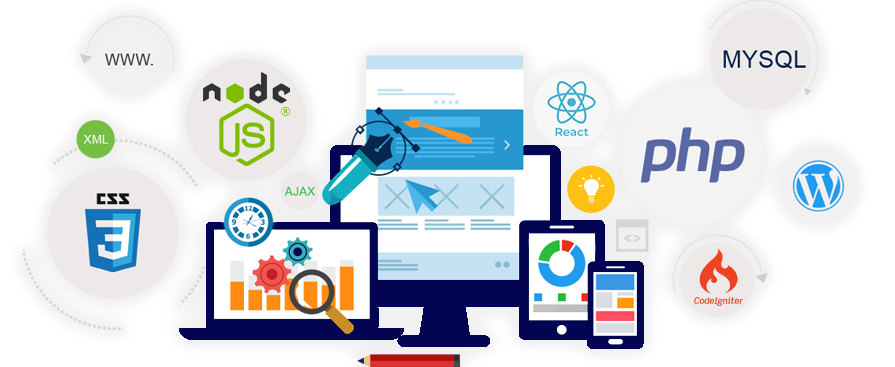
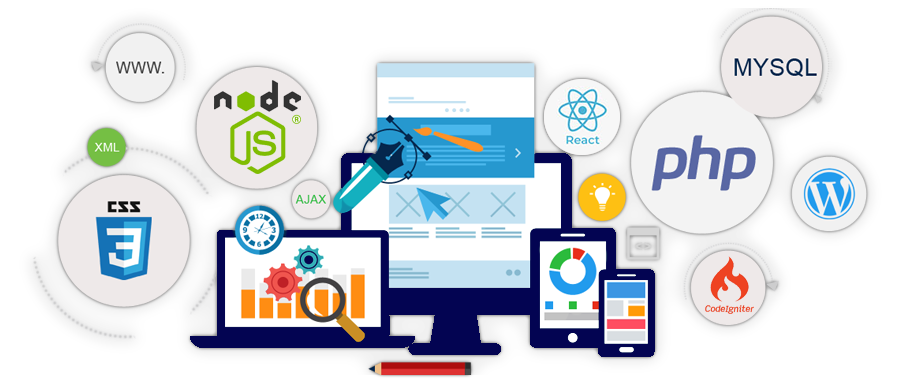
section update

diff --git a/components/home/ResponsiveWebDesignFeature.jsx b/components/home/ResponsiveWebDesignFeature.jsx
@@ -1,0 +1,158 @@
+'use client';
+
+import Image from 'next/image';
+import { ArrowRight, Timer, Database, Store } from 'lucide-react';
+
+export default function ResponsiveWebDesignFeature() {
+  return (
+    <section id="services" className="bg-[#f4f7f5] py-16 md:py-24">
+      <div className="mx-auto max-w-6xl px-6">
+        <div className="grid grid-cols-1 gap-6 md:grid-cols-3">
+          <div className="flex flex-col justify-between rounded-3xl bg-gradient-to-br from-emerald-600 to-teal-800 p-8 text-white shadow-sm transition-transform duration-300 hover:scale-[1.01] md:col-span-2 md:p-12">
+            <div>
+              <span className="mb-3 block text-xs font-bold uppercase tracking-widest text-emerald-300">
+                Core Expertise
+              </span>
+              <h1 className="max-w-xl text-4xl font-extrabold leading-tight tracking-tight md:text-5xl">
+                Responsive Web Design &amp; Development
+              </h1>
+              <div className="relative mt-6 w-full" style={{ aspectRatio: '1012/174', maxWidth: '400px' }}>
+                <Image
+                  src="/assets/images/AI-Website-Maintainance-Design-Development.png"
+                  alt="Web Design & Development"
+                  fill
+                  className="rounded-xl object-contain"
+                />
+              </div>
+            </div>
+            <div className="mt-8 md:mt-12">
+              <a
+                href="#"
+                className="inline-flex items-center gap-2 rounded-full bg-white px-6 py-3.5 font-semibold text-emerald-900 shadow-md transition-colors hover:bg-emerald-50 group"
+              >
+                Contact Us
+                <ArrowRight className="h-4 w-4 text-emerald-600 transition-transform group-hover:translate-x-1" />
+              </a>
+            </div>
+          </div>
+
+          <div className="flex flex-col justify-between rounded-3xl border border-slate-100 bg-white p-8 shadow-sm transition-transform duration-300 hover:scale-[1.01]">
+            <div className="mb-6 flex h-12 w-12 items-center justify-center rounded-2xl bg-emerald-50 text-xl text-emerald-600">
+              <Timer className="h-6 w-6" />
+            </div>
+            <div>
+              <div className="mb-2 text-5xl font-black tracking-tight text-slate-800">
+                7s
+              </div>
+              <span className="mb-2 block text-sm font-semibold uppercase tracking-wider text-emerald-600">
+                First Impressions Count
+              </span>
+              <p className="text-sm leading-relaxed text-slate-500">
+                You have just seven seconds to make a great impression before visitors judge your brand. We make every millisecond matter.
+              </p>
+            </div>
+          </div>
+
+          <div className="flex flex-col justify-between rounded-3xl border border-slate-100 bg-white p-8 shadow-sm transition-transform duration-300 hover:scale-[1.01]">
+            <div>
+              <span className="mb-4 block text-xs font-bold uppercase tracking-widest text-slate-400">
+                Ecosystem
+              </span>
+              <h3 className="mb-6 text-lg font-bold text-slate-800">
+                Modern Architecture
+              </h3>
+
+              <div className="grid grid-cols-3 gap-3">
+                {[
+                  { icon: NodeIcon, color: 'text-green-600', label: 'Node.js' },
+                  { icon: ReactIcon, color: 'text-cyan-500', label: 'React' },
+                  { icon: PHPIcon, color: 'text-indigo-600', label: 'PHP' },
+                  { icon: WPIcon, color: 'text-blue-500', label: 'WordPress' },
+                  { icon: CSSIcon, color: 'text-blue-600', label: 'CSS3' },
+                  { icon: () => <Database className="h-6 w-6" />, color: 'text-orange-500', label: 'Databases' },
+                ].map(({ icon: Icon, color, label }) => (
+                  <div
+                    key={label}
+                    title={label}
+                    className="group flex flex-col items-center justify-center rounded-xl bg-slate-50 p-3 transition-colors hover:bg-emerald-50"
+                  >
+                    <Icon />
+                  </div>
+                ))}
+              </div>
+            </div>
+            <p className="mt-6 text-xs italic text-slate-400">
+              Built using top-tier, scalable software standards.
+            </p>
+          </div>
+
+          <div className="flex flex-col items-start justify-between gap-6 rounded-3xl border border-slate-100 bg-white p-8 shadow-sm transition-transform duration-300 hover:scale-[1.01] md:col-span-2 md:flex-row md:items-center md:p-12">
+            <div className="max-w-md">
+              <h3 className="mb-3 text-xl font-bold text-slate-800">
+                Your Digital Storefront
+              </h3>
+              <p className="leading-relaxed text-slate-500">
+                In the digital age, your website is your primary storefront. It entices customers, builds immediate trust, and drives scalable
+                conversions just like a well-designed premium physical store would.
+              </p>
+            </div>
+            <div className="flex w-full flex-shrink-0 items-center gap-4 rounded-2xl border border-slate-100 bg-slate-50 p-6 md:w-auto">
+              <div className="rounded-xl bg-emerald-500 p-3 text-white">
+                <Store className="h-5 w-5" />
+              </div>
+              <div>
+                <div className="text-sm font-bold text-slate-700">
+                  Physical Charm
+                </div>
+                <div className="text-xs text-slate-400">
+                  Meets Digital Power
+                </div>
+              </div>
+            </div>
+          </div>
+        </div>
+      </div>
+    </section>
+  );
+}
+
+function NodeIcon() {
+  return (
+    <svg viewBox="0 0 24 24" className="h-6 w-6 fill-current text-green-600">
+      <path d="M12 2C6.48 2 2 6.48 2 12s4.48 10 10 10 10-4.48 10-10S17.52 2 12 2zm-1 17.93c-3.95-.49-7-3.85-7-7.93 0-.62.08-1.21.21-1.79L9 15v1c0 1.1.9 2 2 2v1.93zm6.9-2.54c-.26-.81-1-1.39-1.9-1.39h-1v-3c0-.55-.45-1-1-1H8v-2h2c.55 0 1-.45 1-1V7h2c1.1 0 2-.9 2-2v-.41c2.93 1.19 5 4.06 5 7.41 0 2.08-.8 3.97-2.1 5.39z"/>
+    </svg>
+  );
+}
+
+function ReactIcon() {
+  return (
+    <svg viewBox="0 0 24 24" className="h-6 w-6 fill-current text-cyan-500">
+      <path d="M12 10.11c1.04 0 1.89.85 1.89 1.89s-.85 1.89-1.89 1.89-1.89-.85-1.89-1.89.85-1.89 1.89-1.89zM12 2.5c-2.39 0-4.49 1.15-5.91 2.95 1.77 1.02 4.23 1.84 6.96 2.28.62-1.27 1.33-2.45 2.1-3.46C14.63 3.23 13.33 2.5 12 2.5zM8.71 6.08C7.71 7.33 6.83 8.74 6.12 10.26c1.78.26 3.76.46 5.85.58.69-1.24 1.46-2.4 2.29-3.44-1.87-.52-3.77-.8-5.55-.32zM5.56 12.37c-.11.52-.17 1.07-.17 1.63 0 3.78 2.53 6.99 6 7.93-1.81-2.36-3.02-5.68-3.02-9.56 0-.32.01-.63.03-.94-1.01-.22-2-.39-2.84-.06zM6.29 16.68c.63 1.66 1.53 3.1 2.62 4.25-1.55-.41-2.93-1.19-3.99-2.21.45-.7.9-1.38 1.37-2.04z"/>
+    </svg>
+  );
+}
+
+function PHPIcon() {
+  return (
+    <svg viewBox="0 0 24 24" className="h-6 w-6 fill-current text-indigo-600">
+      <path d="M7.01 18.5L9.52 5.5h3.03c2.1 0 3.7.43 4.8 1.28 1.1.86 1.65 2.08 1.65 3.67 0 .99-.21 1.86-.63 2.6-.42.74-1.01 1.31-1.78 1.71-.77.4-1.67.6-2.71.6h-1.69l-1.15 5.13H7.01zm3.91-7.47h.89c.88 0 1.57-.22 2.07-.65s.76-1.03.76-1.78c0-.73-.25-1.26-.76-1.6s-1.2-.55-2.07-.55h-.89l-1 4.58z"/>
+      <path d="M16.01 18.5l.75-3.46h1.28c.53 0 .98-.1 1.34-.31.36-.21.62-.52.77-.94.16-.42.23-.92.23-1.5 0-.48-.09-.91-.27-1.29.13-.04.27-.06.42-.06h1.15l.75-3.44h-2.88c-.83 0-1.49.19-1.96.58-.48.39-.8.91-.98 1.58h-1.23l-.75 3.46h1.23c-.18.67-.27 1.38-.27 2.14 0 .58.07 1.09.21 1.51.14.42.35.76.63 1.04.27.28.6.47.97.58.37.11.78.16 1.23.16h1.06z"/>
+    </svg>
+  );
+}
+
+function WPIcon() {
+  return (
+    <svg viewBox="0 0 24 24" className="h-6 w-6 fill-current text-blue-500">
+      <path d="M12 2C6.48 2 2 6.48 2 12s4.48 10 10 10 10-4.48 10-10S17.52 2 12 2zm-1 15.93c-3.95-.49-7-3.85-7-7.93 0-.62.08-1.21.21-1.79L8 12v1c0 1.1.9 2 2 2v1.93zm6.9-2.54c-.26-.81-1-1.39-1.9-1.39h-1v-3c0-.55-.45-1-1-1H8v-2h2c.55 0 1-.45 1-1V7h2c1.1 0 2-.9 2-2v-.41c2.93 1.19 5 4.06 5 7.41 0 2.08-.8 3.97-2.1 5.39z"/>
+    </svg>
+  );
+}
+
+function CSSIcon() {
+  return (
+    <svg viewBox="0 0 24 24" className="h-6 w-6 fill-current text-blue-600">
+      <path d="M4.5 2l1.64 18.24L12 22l5.86-1.76L19.5 2H4.5zm13.48 3.23l-.33 3.72H10.19l.14 1.57h7.21l-.55 6.17L12 18.03l-4.99-1.34-.35-3.89h2.43l.18 2.05 2.73.74 2.73-.74.28-3.16H6.54l-.52-5.7h12.12l-.16 1.7z"/>
+    </svg>
+  );
+}

diff --git a/components/home/HeroSection.jsx b/components/home/HeroSection.jsx
@@ -69,20 +69,10 @@ export default function HeroSection() {
           </div>
 
           {/* Action Callouts / CTAs */}
-          <motion.div 
-            initial={{ opacity: 0, y: 20 }}
-            animate={{ opacity: 1, y: 0 }}
-            transition={{ duration: 0.6, delay: 0.3 }}
-            className="flex flex-col sm:flex-row gap-4 justify-center lg:justify-start"
-          >
-            <button className="group relative inline-flex items-center justify-center gap-2 px-7 py-3.5 rounded-xl bg-[#3ab54b] text-white font-semibold uppercase hover:bg-[#2d8a3b] transition-all duration-200 shadow-lg shadow-[#3ab54b]/20 overflow-hidden">
-              <span>Initiate Project</span>
-              <ArrowRight className="w-4 h-4 group-hover:translate-x-1 transition-transform" />
-            </button>
-            <button className="inline-flex items-center justify-center gap-2 px-7 py-3.5 rounded-xl bg-transparent border border-white/20 text-white/80 font-semibold uppercase hover:bg-white/5 hover:text-white hover:border-white/40 transition-all duration-200">
-              Explore Our Stack
-            </button>
-          </motion.div>
+          <div className="hidden">
+            <button>Initiate Project</button>
+            <button>Explore Our Stack</button>
+          </div>
 
           {/* Dynamic Service Feature Tabs */}
           <motion.div 

diff --git a/components/home/WebDesignClients.jsx b/components/home/WebDesignClients.jsx
@@ -37,13 +37,9 @@ export default function WebDesignClients() {
               In an aggressive marketspace and saturated marketplace it was important to evolve the
               brand visually into something that really stood out.
             </p>
-            <div className="mt-6 flex flex-wrap gap-4">
-              <button className="btn inline-flex items-center gap-2 rounded-xl border border-white/30 px-5 py-2.5 text-white transition hover:bg-white hover:text-slate-900">
-                VIEW CASE STUDY
-              </button>
-              <button className="btn inline-flex items-center gap-2 rounded-xl border border-white/30 px-5 py-2.5 text-white/70 transition hover:bg-white hover:text-slate-900">
-                View All Case Studies
-              </button>
+            <div className="hidden">
+              <button>VIEW CASE STUDY</button>
+              <button>View All Case Studies</button>
             </div>
           </div>
           <div className="grid grid-cols-2 gap-3">

diff --git a/pages/index.js b/pages/index.js
@@ -2,8 +2,7 @@ import Head from "next/head";
 import NoiseOverlay from "@/components/backgrounds/NoiseOverlay";
 import Navbar from "@/components/home/Navbar";
 import HeroSection from "@/components/home/HeroSection";
-import ResponsiveWebDesign from "@/components/home/ResponsiveWebDesign";
-import FeatureImage from "@/components/home/FeatureImage";
+import ResponsiveWebDesignFeature from "@/components/home/ResponsiveWebDesignFeature";
 import UXUI from "@/components/home/UXUI";
 import WebDesignProcess from "@/components/home/WebDesignProcess";
 import SEOWebDesignService from "@/components/home/SEOWebDesignService";
@@ -29,8 +28,7 @@ export default function HomePage() {
       <main className="min-h-screen overflow-x-hidden text-[#333]">
         <Navbar />
         <HeroSection />
-        <ResponsiveWebDesign />
-        <FeatureImage />
+        <ResponsiveWebDesignFeature />
         <UXUI />
         <WebDesignProcess />
         <SEOWebDesignService />

diff --git a/components/home/Portfolio.jsx b/components/home/Portfolio.jsx
@@ -34,7 +34,7 @@ export default function Portfolio() {
             <div
               key={i}
               className={`group relative overflow-hidden rounded-2xl shadow-sm transition hover:shadow-lg ${
-                i === 0 ? "col-span-2 row-span-2" : ""
+                i === 0 ? "col-span-2 row-span-2 min-h-[400px]" : "min-h-[200px]"
               }`}
             >
               <div className="relative h-full w-full">
@@ -42,6 +42,7 @@ export default function Portfolio() {
                   src={src}
                   alt={`Portfolio item ${i + 1}`}
                   fill
+                  sizes="(max-width: 768px) 50vw, (max-width: 1024px) 25vw, 20vw"
                   className="object-cover transition duration-500 group-hover:scale-105"
                 />
               </div>

diff --git a/components/home/FeatureImage.jsx b/components/home/FeatureImage.jsx
@@ -7,7 +7,7 @@ export default function FeatureImage() {
   return (
     <section className="relative mx-auto flex max-w-6xl items-center justify-center px-6 py-16 md:py-24" style={{ minHeight: '70vh' }}>
       <MorphBlob gradientFrom="#f5f7fa" gradientTo="#c3cfe2" className="-left-20 top-0 h-[40vh] w-[40vw] max-h-[350px] max-w-[350px]" duration="18s" delay="-5s" opacity={0.6} />
-      <div className="relative w-full max-h-[70vh]" style={{ aspectRatio: '1024/686' }}>
+      <div className="relative w-full max-h-[70vh]" style={{ aspectRatio: '1200/584' }}>
         <Image
           src="/assets/Feature-Image.png"
           alt="Feature Image"

diff --git a/components/home/SEOWebDesignService.jsx b/components/home/SEOWebDesignService.jsx
@@ -28,7 +28,7 @@ export default function SEOWebDesignService() {
               partner with us.
             </p>
           </div>
-          <div className="relative w-full max-w-sm" style={{ aspectRatio: '1024/1024' }}>
+          <div className="relative w-full h-full" style={{ aspectRatio: '1024/1024' }}>
             <Image
               src="/assets/images/Intro-preview-7.png"
               alt="Web Design Process"
